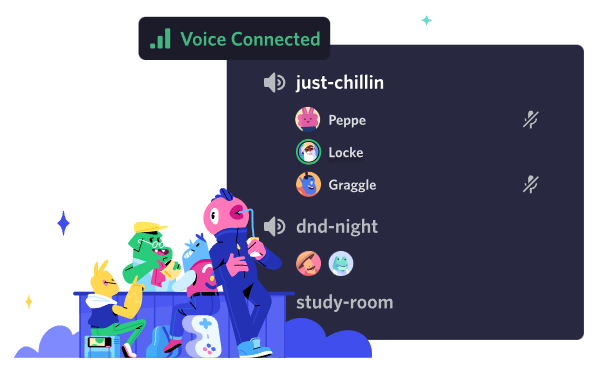
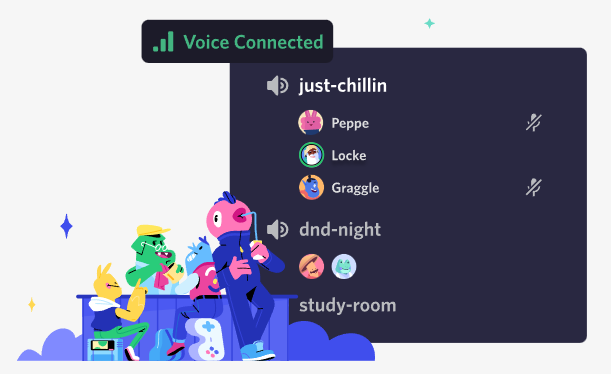
Add: details section 3 and 4

diff --git a/inex.html b/inex.html
@@ -103,11 +103,16 @@
             <!-- THIRD SECTION -->
             <div class="details-section3">
                 <div class="third-section">
-                    <div class="image">
-
+                    <div class="image flex">
+                        <img src="img/discord-img-section-3.png" alt="Group voice">
                     </div>
                     <section class="info">
-
+                        <h2>Dove trovarsi è <br> facile
+                        </h2>
+                        <p>
+                            Mettiti comodo in un canale vocale quando hai tempo. Gli amici nel tuo server possono vedere
+                            che sei lì e unirsi istantaneamente senza dover chiamare.
+                        </p>
                     </section>
                 </div>
             </div>
@@ -116,11 +121,16 @@
             <!-- FOURTH SECITON -->
             <div class="details-section">
                 <div class="fourth-section">
-                    <div class="image">
-
+                    <div class="image flex">
+                        <img src="img/discord-img-section-4.png" alt="Community tools">
                     </div>
                     <section class="info">
-
+                        <h2>Da pochi a un <br> fandom
+                        </h2>
+                        <p>
+                            Dai inizio a una community con strumenti di moderazione e accesso ai membri
+                            personalizzabile. Concedi ai membri poteri speciali, crea canali privati e molto altro.
+                        </p>
                     </section>
                 </div>
             </div>

diff --git a/CSS/style.css b/CSS/style.css
@@ -190,14 +190,14 @@ h1 {
 .image {
     width: 60%;
     /* DEBUG */
-    background-color: skyblue;
+    /* background-color: skyblue; */
 }
 
 .info {
     width: 40%;
     padding: 50px;
     /* DEBUG */
-    background-color: plum;
+    /* background-color: plum; */
 }
 
 /* THIRD SECTRION */
@@ -207,7 +207,7 @@ h1 {
     align-content: center;
     height: 500px;
     /* DEBUG */
-    background-color: lightgrey;
+    background-color: rgb(247, 247, 247);
 }
 
 .third-section {
@@ -217,7 +217,7 @@ h1 {
     width: 60%;
     align-self: center;
     /* DEBUG */
-    border: 2px solid black;
+    /* border: 2px solid black; */
 }
 
 /* FOURTH SECTION */
@@ -236,7 +236,7 @@ h1 {
     width: 60%;
     align-self: center;
     /* DEBUG */
-    border: 2px solid black;
+    /* border: 2px solid black; */
 }
 
 /* FIFTH SECTION */
